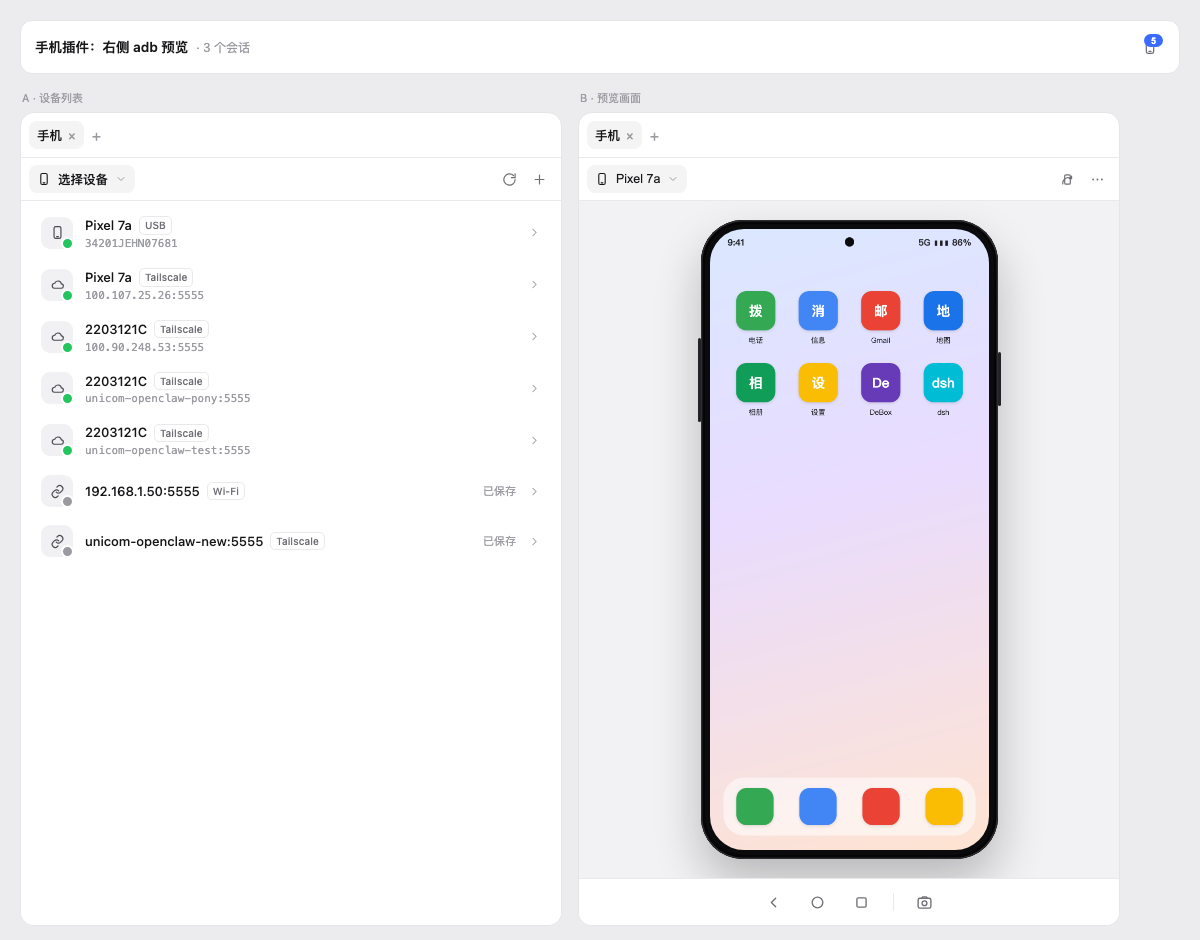
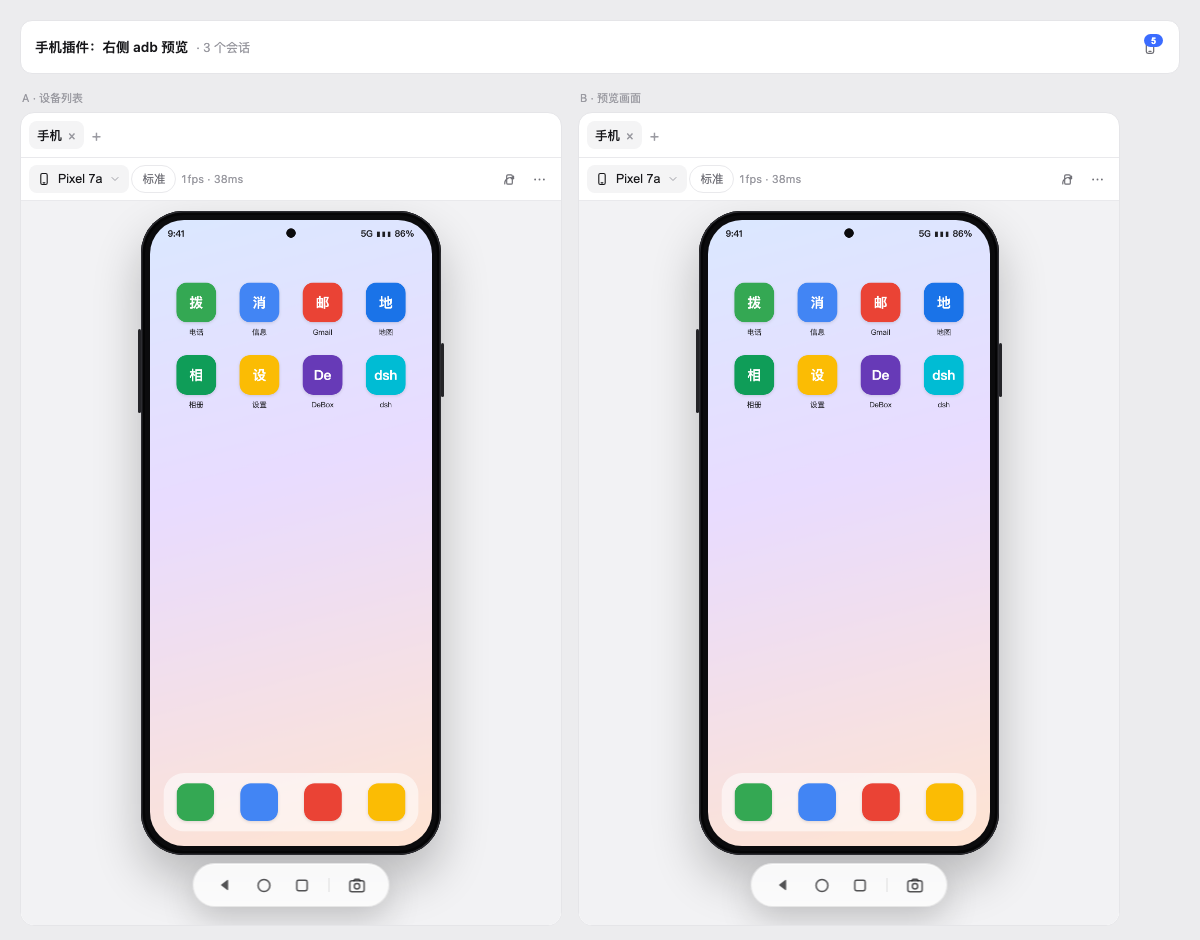
feat(ux): 自动进入预览、FPS/延迟指示、空态引导
- 面板首次挂载自动进入：优先本会话上次设备（localStorage/sessionId），否则第一台在线
- 顶部清晰度右侧显示 fps 和 adb ping 延迟（5s 刷新）
- 无设备时空态居中 + 连接设备按钮；自动进入仅一次，可从下拉回到列表
- Host 新增 /phone/ping（adb shell echo 往返 ms）
- 版本 0.3.0

diff --git a/lib/client.js b/lib/client.js
@@ -127,6 +127,10 @@ window.__ModuleLoader__.load({
 .dph-select .nm{font-weight:500;overflow:hidden;text-overflow:ellipsis;white-space:nowrap}
 .dph-quality{height:28px;padding:0 10px;border:1px solid var(--dsw-alias-border-l1,#e9e9ec);border-radius:999px;background:transparent;color:var(--dsw-alias-label-secondary,#6f6f76);font-size:11.5px;cursor:pointer;flex:none}
 .dph-quality:hover{background:var(--dsw-alias-bg-layer-2,#f4f4f5);color:var(--dsw-alias-label-primary,#17171a)}
+.dph-perf{font-size:11px;color:var(--dsw-alias-label-tertiary,#9a9aa1);white-space:nowrap;margin-left:2px;font-variant-numeric:tabular-nums}
+.dph-empty{flex:1 1 auto;min-height:0;display:flex;flex-direction:column;align-items:center;justify-content:center;gap:10px;padding:24px;text-align:center;color:var(--dsw-alias-label-tertiary,#9a9aa1)}
+.dph-empty-icon{color:var(--dsw-alias-label-tertiary,#9a9aa1);opacity:.7}
+.dph-empty-title{font-size:13px;color:var(--dsw-alias-label-secondary,#6f6f76)}
 .dph-select .chev{color:var(--dsw-alias-label-tertiary,#9a9aa1);flex:none}
 .dph-body{flex:1 1 auto;min-height:0;display:flex;flex-direction:column}
 
@@ -389,6 +393,7 @@ window.__ModuleLoader__.load({
         disconnect: (serial) => unwrap('disconnect', { serial }),
         input: (serial, event) => unwrap('input', { serial, event }),
         screenInfo: (serial) => unwrap('screen-info', { serial }),
+        ping: (serial) => unwrap('ping', { serial }),
         targets: () => unwrap('targets'),
         removeTarget: (address) => unwrap('targets/remove', { address }),
         shot: async (serial) => {
@@ -644,7 +649,7 @@ window.__ModuleLoader__.load({
       return { codec, description }
     }
 
-    function useStream(serial, visible, canvasRef, onToast, attempt, quality, onSize) {
+    function useStream(serial, visible, canvasRef, onToast, attempt, quality, onSize, onFrame) {
       const [status, setStatus] = useState('idle')
       useEffect(() => {
         if (!serial || !visible || !CAN_STREAM) {
@@ -688,6 +693,7 @@ window.__ModuleLoader__.load({
                 }
                 frames += 1
                 waitingKey = false
+                if (onFrame) onFrame()
                 if (!reportedSize) {
                   reportedSize = true
                   if (onSize) onSize(frame.displayWidth, frame.displayHeight)
@@ -804,9 +810,23 @@ window.__ModuleLoader__.load({
       const [loading, setLoading] = useState(true)
       const [attempt, setAttempt] = useState(0)
       const [toast, setToast] = useState(null)
-      const streamStatus = useStream(CAN_STREAM ? serial : null, visible, canvasRef, setToast, attempt, quality, (w, h) => {
-        if (w > 0 && h > 0) setRatio(w / h)
-      })
+      const [fps, setFps] = useState(0)
+      const [rtt, setRtt] = useState(null)
+      const frameCounter = useRef({ count: 0, at: typeof performance !== 'undefined' ? performance.now() : Date.now() })
+      const streamStatus = useStream(
+        CAN_STREAM ? serial : null,
+        visible,
+        canvasRef,
+        setToast,
+        attempt,
+        quality,
+        (w, h) => {
+          if (w > 0 && h > 0) setRatio(w / h)
+        },
+        () => {
+          frameCounter.current.count += 1
+        },
+      )
 
       useEffect(() => {
         if (!serial) return undefined
@@ -824,6 +844,35 @@ window.__ModuleLoader__.load({
           alive = false
         }
       }, [serial])
+
+      useEffect(() => {
+        const timer = setInterval(() => {
+          const now = typeof performance !== 'undefined' ? performance.now() : Date.now()
+          const state = frameCounter.current
+          const seconds = Math.max(0.2, (now - state.at) / 1000)
+          setFps(Math.round(state.count / seconds))
+          state.count = 0
+          state.at = now
+        }, 1000)
+        return () => clearInterval(timer)
+      }, [])
+
+      useEffect(() => {
+        if (!serial || !visible) return undefined
+        let alive = true
+        const tick = async () => {
+          try {
+            const value = await api.ping(serial)
+            if (alive && value && typeof value.ms === 'number') setRtt(value.ms)
+          } catch {}
+        }
+        tick()
+        const timer = setInterval(tick, 5000)
+        return () => {
+          alive = false
+          clearInterval(timer)
+        }
+      }, [serial, visible])
 
       useEffect(() => {
         const el = stageRef.current
@@ -873,6 +922,7 @@ window.__ModuleLoader__.load({
             setFrameUrl(url)
             setError(null)
             setLoading(false)
+            frameCounter.current.count += 1
           } catch (err) {
             if (!alive) return
             setError(err && err.message ? err.message : 'shot failed')
@@ -992,6 +1042,8 @@ window.__ModuleLoader__.load({
         error: errorNow,
         loading: loadingNow,
         toast,
+        fps,
+        rtt,
         setToast,
         send,
         screenshot,
@@ -1003,7 +1055,7 @@ window.__ModuleLoader__.load({
     }
 
     function PhoneTabBody(props) {
-      const { t, useTabInfo, floatTab } = props
+      const { t, useTabInfo, floatTab, sessionId } = props
       const info = typeof useTabInfo === 'function' ? useTabInfo() : null
       const tab = info && info.tab ? info.tab : null
       const visible = tab ? tab.visible !== false : true
@@ -1035,6 +1087,7 @@ window.__ModuleLoader__.load({
         }
       })
       const [disconnectArmed, setDisconnectArmed] = useState(false)
+      const autoSelected = useRef(false)
       const { devices, error, reload } = useDeviceList(visible, nonce)
       const quality = selected && QUALITY_ORDER.includes(qualityMap[selected]) ? qualityMap[selected] : 'medium'
       const setQualityForSelected = (next) => {
@@ -1109,14 +1162,46 @@ window.__ModuleLoader__.load({
         }
       }
 
+      const rememberDevice = (serial) => {
+        try {
+          const raw = JSON.parse(localStorage.getItem('dsh-phone-last-device') || '{}')
+          const map = raw && typeof raw === 'object' ? raw : {}
+          if (sessionId) map[sessionId] = serial
+          map['*'] = serial
+          localStorage.setItem('dsh-phone-last-device', JSON.stringify(map))
+        } catch {}
+      }
+
+      useEffect(() => {
+        if (autoSelected.current) return undefined
+        const list = rows
+        if (!list || list.length === 0) return undefined
+        let remembered = null
+        try {
+          const map = JSON.parse(localStorage.getItem('dsh-phone-last-device') || '{}')
+          remembered = (sessionId && map[sessionId]) || map['*'] || null
+        } catch {}
+        const ready = list.filter((item) => item.state === 'device')
+        const pick = list.find((item) => item.serial === remembered) || ready[0] || list[0]
+        if (pick) {
+          autoSelected.current = true
+          setSelected(pick.serial)
+        }
+        return undefined
+      }, [devices, targets, selected, sessionId])
+
       const onSelect = (picked) => {
         setMenuOpen(false)
         if (picked && picked.saved) {
           connectTo(picked.serial).then((ok) => {
-            if (ok) setSelected(picked.serial)
+            if (ok) {
+              rememberDevice(picked.serial)
+              setSelected(picked.serial)
+            }
           })
           return
         }
+        rememberDevice(picked.serial)
         setSelected(picked.serial)
       }
 
@@ -1483,9 +1568,10 @@ window.__ModuleLoader__.load({
             : rows.length === 0
               ? h(
                   'div',
-                  { className: 'dph-emptypadding' },
-                  h('div', null, t('empty')),
-                  h('button', { type: 'button', className: 'dph-link', style: { marginTop: 8 }, onClick: () => setConnectOpen(true) }, '+ ' + t('add')),
+                  { className: 'dph-empty' },
+                  h('div', { className: 'dph-empty-icon' }, h(Icon, { name: 'phone', size: 30 })),
+                  h('div', { className: 'dph-empty-title' }, t('empty')),
+                  h('button', { type: 'button', className: 'dph-primary', onClick: () => setConnectOpen(true) }, '+ ' + t('add')),
                 )
               : h(DeviceRows, { t, devices: rows, selected, onSelect })
 
@@ -1571,6 +1657,7 @@ window.__ModuleLoader__.load({
                 qualityLabel(quality, t),
               )
             : null,
+          selected ? h('span', { className: 'dph-perf', title: t('quality') }, preview.fps + 'fps · ' + (preview.rtt == null ? '—' : preview.rtt + 'ms')) : null,
           h('div', { className: 'dph-grow' }),
           rightButtons,
         ),
@@ -1639,7 +1726,8 @@ window.__ModuleLoader__.load({
               name: 'sidebar.right.pane.tab',
               key: 'dsh-phone',
               locale: NS,
-              inject: () => ({
+              inject: (sessionId) => ({
+                sessionId,
                 floatTab: (tabId, rect) => ctx.sidebarRight.float(tabId, rect),
               }),
             },

diff --git a/lib/adb.js b/lib/adb.js
@@ -285,6 +285,15 @@ export class Adb {
     }
   }
 
+  /** 一次最小 adb round-trip，用来估算设备/网络延迟（ms）。 */
+  async ping(serial) {
+    await this.assertReady(serial)
+    const started = process.hrtime.bigint()
+    await this._run(['-s', serial, 'shell', 'echo', 'ok'], { timeout: 5000 })
+    const ms = Number(process.hrtime.bigint() - started) / 1e6
+    return { ms: Math.round(ms), at: Date.now() }
+  }
+
   /** 系统平台（android / harmony），getprop 读一次缓存 5 分钟。 */
   async platform(serial) {
     const cached = this._platforms.get(serial)

diff --git a/lib/index.js b/lib/index.js
@@ -92,6 +92,8 @@ export function apply(ctx, rawConfig) {
         return ok({ targets: await targets.list() })
       case 'targets/remove':
         return ok({ removed: await targets.remove(String(payload.address || '')) })
+      case 'ping':
+        return ok(await adb.ping(String(payload.serial || '')))
       case 'screen-info':
         return ok(await adb.screenInfo(String(payload.serial || '')))
       case 'disconnect':

diff --git a/README.md b/README.md
@@ -15,7 +15,7 @@ DSH Web 插件：在右侧栏预览已连接的 Android 设备，点画面就是
 
 - **会话头部手机图标**：点一下展开右侧栏，角标显示在线设备数。
 - **设备列表**：平铺一列，不按手机类型分组；图标按设备系统显示（Android / HarmonyOS / iOS），旁边两个小标签分别标连接方式（USB / Wi-Fi / Tailscale / emulator）和系统（Android / HarmonyOS / iOS），状态点区分 `device` / `unauthorized` / `offline` / `已保存`。
-- **预览**：H.264 流（`screenrecord` → WebCodecs → canvas），约 20–30fps；不支持 WebCodecs 时自动回退截图轮询。设备画面按右侧栏高度等比缩放，带机身 bezel。
+- **预览**：H.264 流（`screenrecord` → WebCodecs → canvas），约 20–30fps；不支持 WebCodecs 时自动回退截图轮询。打开面板会自动进入预览（本会话上次设备 → 第一台在线设备）。
 - **点按**：点击 = `tap`，拖拽 = `swipe`（坐标按 `wm size` 的设备像素换算，和流分辨率无关）。
 - **操作栏**：底部是「返回 / 主页 / 多任务 | 截图」，顶部只有设备下拉、旋转、更多。
 - **连接**：`adb connect <ip>:<port>`（无线调试、Tailscale 云手机）；连接过的目标自动记到 `$DSH_HOME/phone/targets.json`，未连接时也显示在列表里，点一下就直接连。

diff --git a/CHANGELOG.md b/CHANGELOG.md
@@ -1,5 +1,15 @@
 # Changelog
 
+## 0.3.0 — 2026-10-24
+
+### 新增
+- 打开手机面板自动进入预览：优先本会话上次使用的设备（localStorage 按 sessionId 记忆），否则第一台在线设备
+- 顶部清晰度右侧显示实时 **FPS** 和 **adb 往返延迟**（每 5s 探测一次）
+- 没有可用设备时，居中空态 + 「+ 连接设备」按钮
+
+### 变更
+- 「设备列表」仍可从左上角设备下拉进入；自动进入只发生在面板首次挂载
+
 ## 0.2.2 — 2026-10-24
 
 ### 修复
